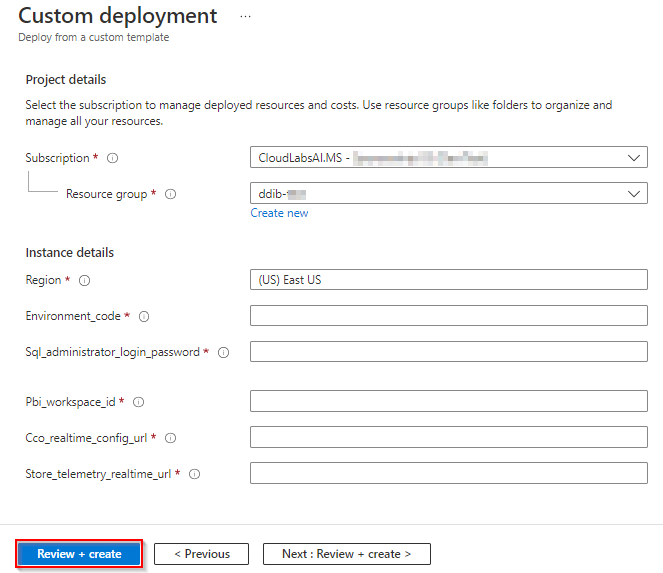
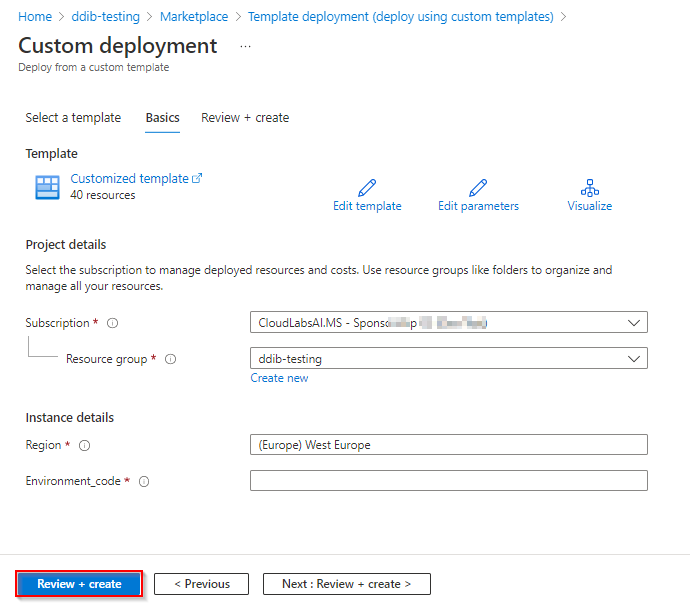
final

diff --git a/Readme-shell.md b/Readme-shell.md
@@ -111,29 +111,21 @@ THIS DEMO/LAB PROVIDES CERTAIN SOFTWARE TECHNOLOGY/PRODUCT FEATURES AND FUNCTION
 
 4. **Provide/Type** an environment code which is unique to your environment. This code is a suffix to your environment and should not have any special characters or uppercase letters and should not be more than 6 characters. 
 
-5. **Provide** a strong SQL Administrator login password and set this aside for later use.
-
-6. **Enter** the Power BI workspace ID copied in step 6 of [Task 2](#task-2-power-bi-workspace-creation).
-
-7. **Enter** the power BI streaming dataset url for **CCO Realtime** you copied in step 13 of [Task 2](#task-2-power-bi-workspace-creation).
-
-8. **Enter** the power BI streaming dataset url for **Store Telemetry Realtime** you copied in step 12 of [Task 2](#task-2-power-bi-workspace-creation).
-
-9. **Click** ‘Review + Create’ button.
+5. **Click** ‘Review + Create’ button.
 
 	![The Custom deployment form is displayed with example data populated.](media/powerbi-deployment-1.png)
 
-10. **Click** the **Create** button once the template has been validated.
+6. **Click** the **Create** button once the template has been validated.
 
 	![Creating the template after validation.](media/powerbi-deployment-3.png)
 	
 	> **NOTE:** The provisioning of your deployment resources will take approximately 10 minutes.
 	
-11. **Stay** on the same page and wait for the deployment to complete.
+7. **Stay** on the same page and wait for the deployment to complete.
     
 	![A portion of the Azure Portal to confirm that the deployment is in progress.](media/microsoft-template.png)
     
-12. **Select** the **Go to resource group** button once your deployment is complete.
+8. **Select** the **Go to resource group** button once your deployment is complete.
 
 	![A portion of the Azure Portal to confirm that the deployment is in progress.](media/microsoft-template-2.png)
 
@@ -158,7 +150,7 @@ THIS DEMO/LAB PROVIDES CERTAIN SOFTWARE TECHNOLOGY/PRODUCT FEATURES AND FUNCTION
 4. In the Azure Cloud Shell window, ensure the PowerShell environment is selected and **enter** the following command to clone the repository files.
 
 ```
-git clone -b midp-with-cosmos --depth 1 --single-branch https://github.com/microsoft/Azure-Analytics-and-AI-Engagement.git midpCosmos
+git clone -b midp-act2-3 --depth 1 --single-branch https://github.com/microsoft/Azure-Analytics-and-AI-Engagement.git midp
 ```
 
 ![Git Clone Command to Pull Down the demo Repository.](media/cloud-shell-4.png)
@@ -170,12 +162,12 @@ git clone -b midp-with-cosmos --depth 1 --single-branch https://github.com/micro
 5. **Execute** the midpComosSetup.ps1 script by executing the following command:
 
 ```
-cd ./midpCosmos/midpCosmos
+cd ./midp/act-3/
 ```
 
 6. Then **run** the PowerShell: 
 ```
-./midpComosSetup.ps1
+./midpSetup.ps1
 ```
     
 ![Commands to run the PowerShell Script.](media/cloud-shell-5.png)
